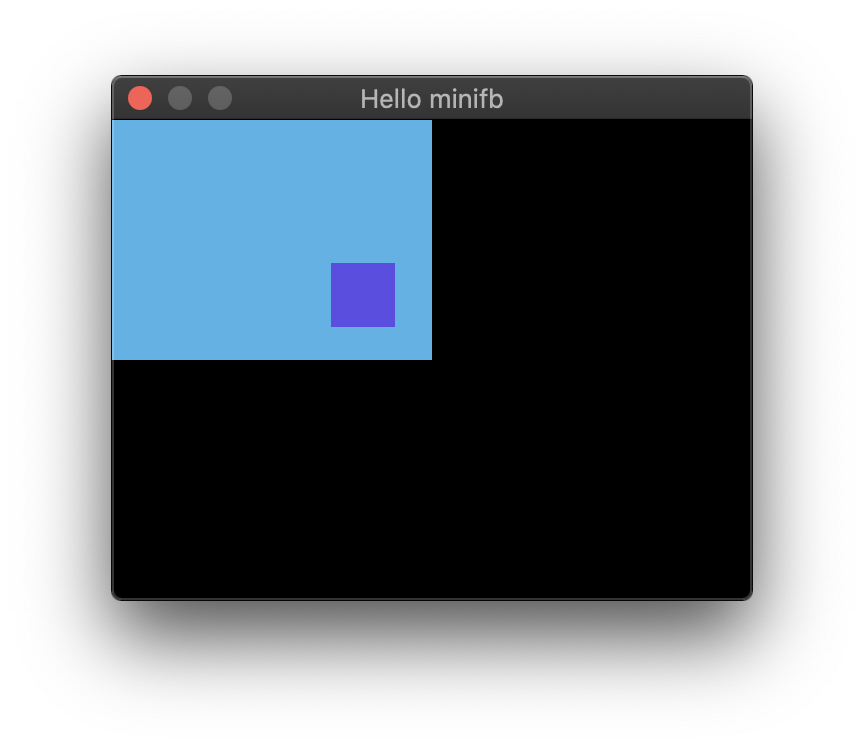
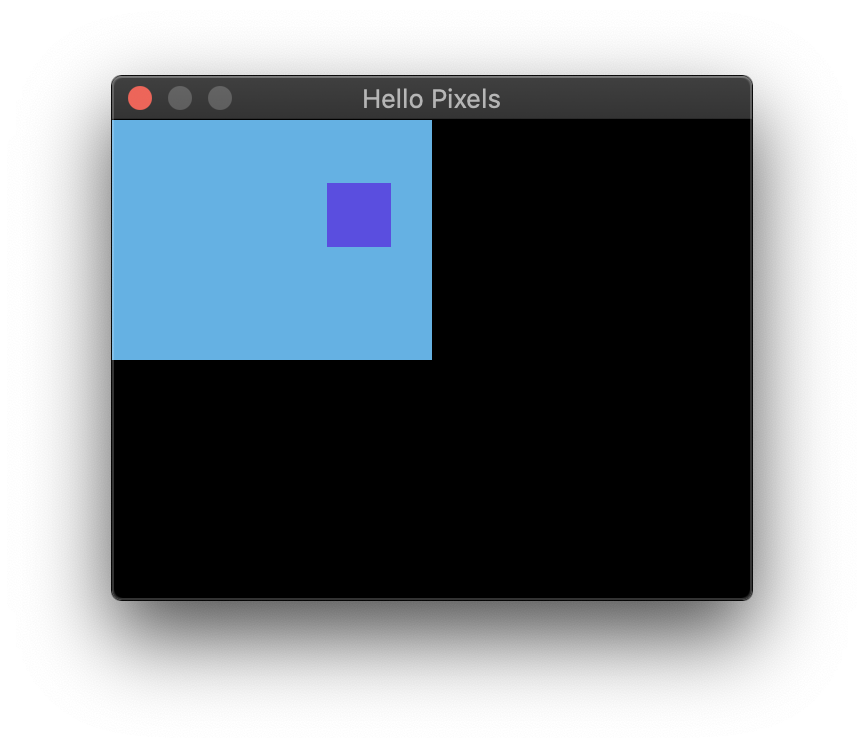
Fix title

Changed region(s): [[0.375, 0.246, 0.4688, 0.4612], [0.4062, 0.123, 0.5938, 0.1537]]

diff --git a/examples/minimal-minifb/src/main.rs b/examples/minimal-minifb/src/main.rs
@@ -19,7 +19,7 @@ struct World {
 fn main() -> Result<(), Error> {
     env_logger::init();
     let mut window = Window::new(
-        "Hello minifb",
+        "Hello Pixels",
         WIDTH as usize,
         HEIGHT as usize,
         WindowOptions::default(),
